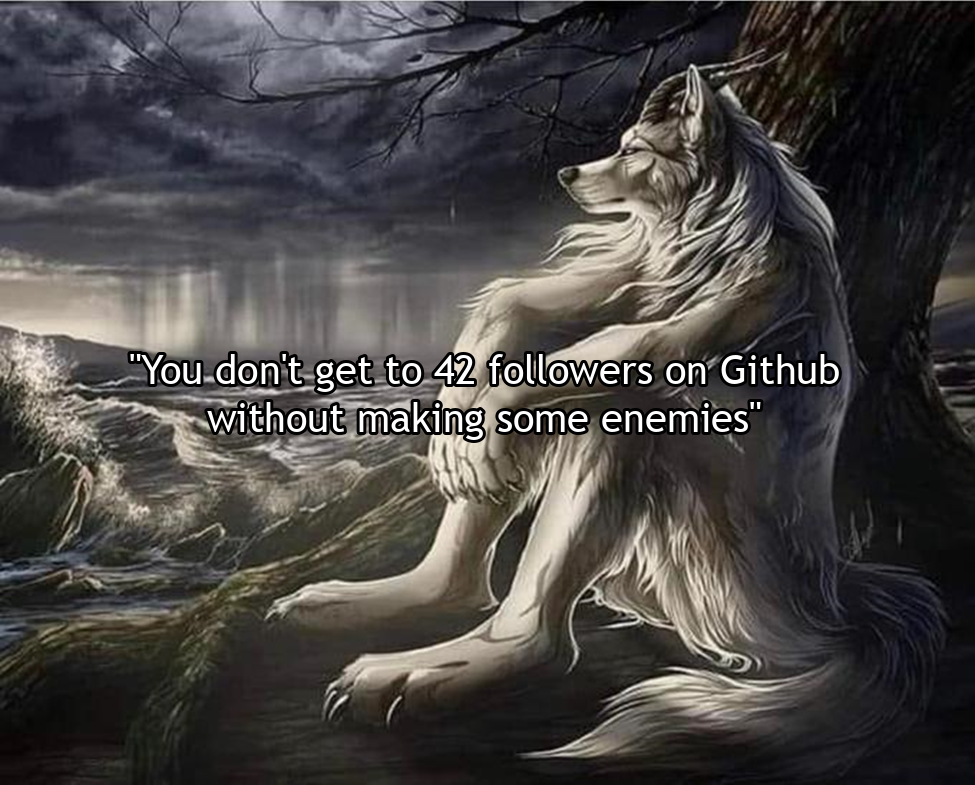
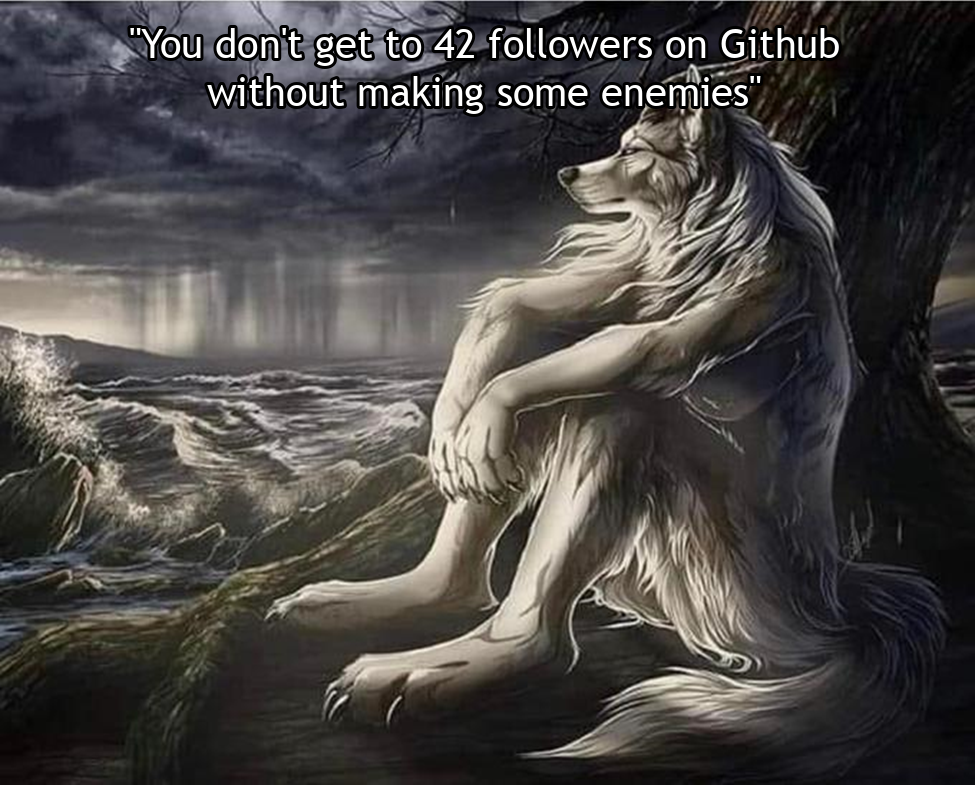
Fix follower quote text position to display at the top of the image

Changed region(s): [[0.1231, 0.0306, 0.8615, 0.1529], [0.1231, 0.428, 0.8615, 0.5809]]

diff --git a/generate_image.py b/generate_image.py
@@ -10,6 +10,7 @@ FONT_SIZE = 40
 TEXT_COLOR = "white"
 STROKE_COLOR = "black"
 STROKE_WIDTH = 3
+TEXT_Y_OFFSET = 20
 
 def get_follower_count(username):
     url = f"https://api.github.com/users/{username}"
@@ -41,7 +42,7 @@ def create_image(count):
 
     image_width, image_height = image.size
     x = (image_width - text_width) / 2
-    y = (image_height - text_height) / 2
+    y = TEXT_Y_OFFSET
 
     draw.multiline_text((x, y), text, font=font, fill=TEXT_COLOR, align="center", stroke_width=STROKE_WIDTH, stroke_fill=STROKE_COLOR)
 
